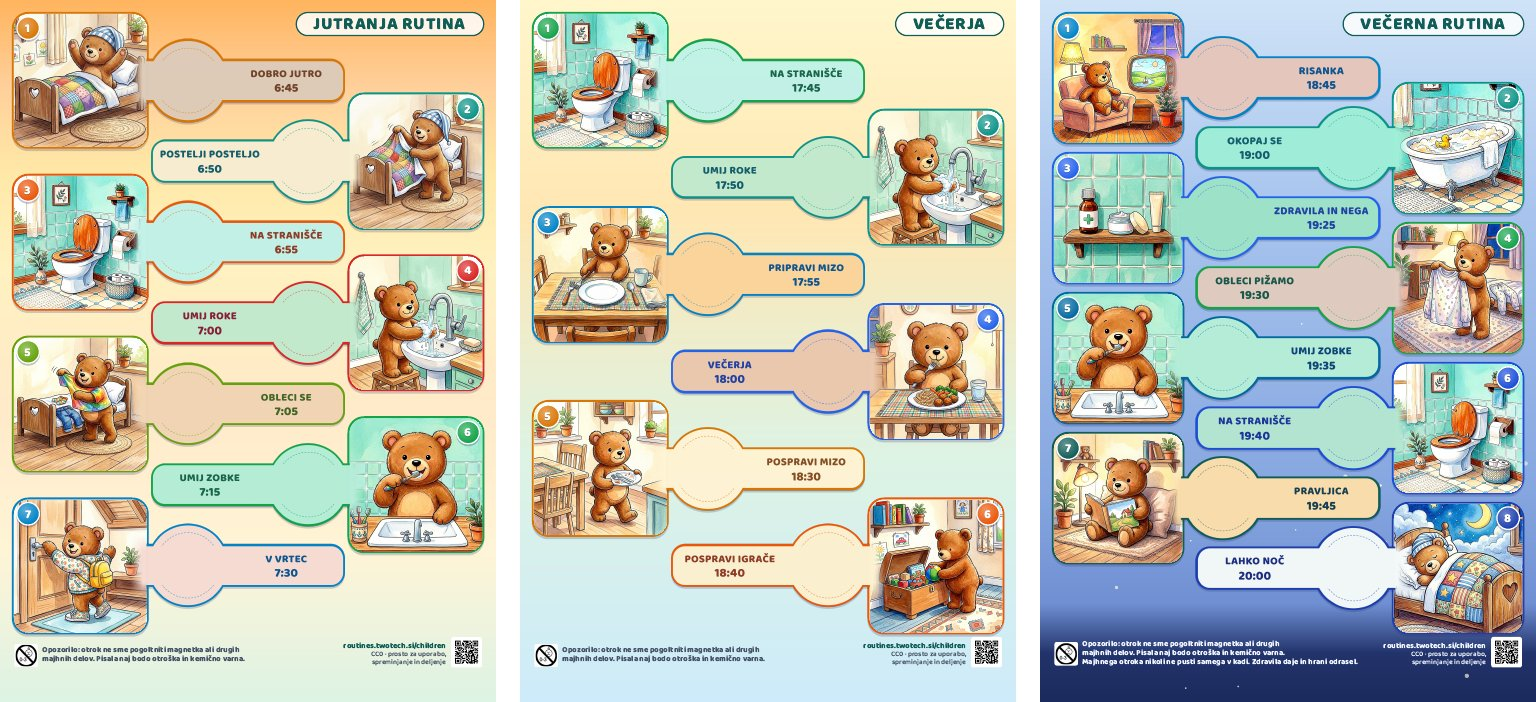
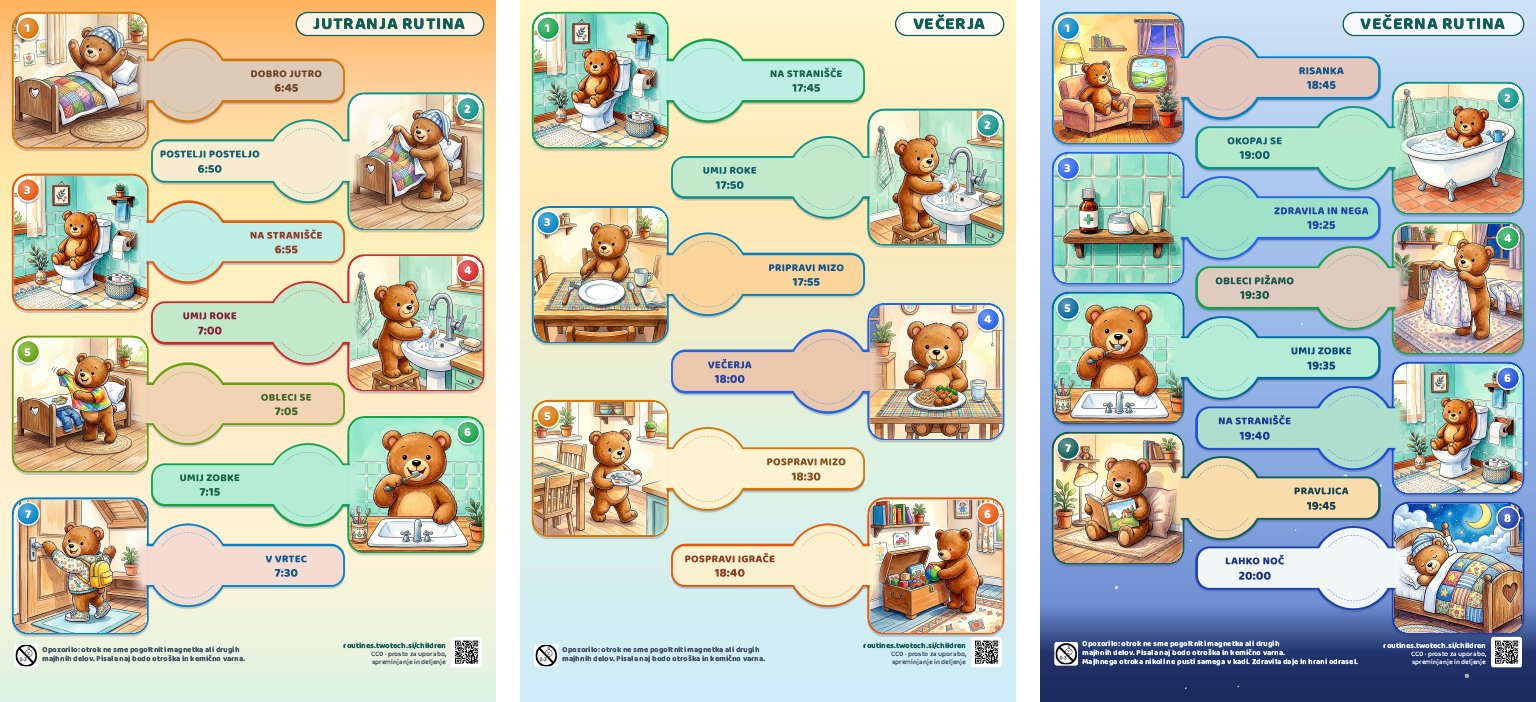
Bear pictures for bath and toilet: the teddy bear in the clawfoot tub and on the toilet, so every step of the examples but medicine shows the same bear
The first bath candidate was rejected: Lens found its rubber duck as an exact match (Redbubble poster); the new one has a toy watering can. Both images passed Lens on the raw and final file and on crops.

diff --git a/output/en-example.html b/output/en-example.html
@@ -286,11 +286,11 @@
         </div>
         <div class="rt-check"></div>
       </div>
-      <div class="rt-pic pic-left" style="--step: #EA580C; --bg: #C3F2E8; --ink: #8E3D28; --y: 87.286mm;">
-        <img src="../images/toilet.jpg" alt="Use the toilet" />
+      <div class="rt-pic pic-left" style="--step: #EA580C; --bg: #C0F0E6; --ink: #8E3D28; --y: 87.286mm;">
+        <img src="../images/toilet-bear.jpg" alt="Use the toilet" />
         <div class="rt-num">3</div>
       </div>
-      <div class="rt-card card-left" style="--step: #EA580C; --bg: #C3F2E8; --ink: #8E3D28; --y: 87.286mm;">
+      <div class="rt-card card-left" style="--step: #EA580C; --bg: #C0F0E6; --ink: #8E3D28; --y: 87.286mm;">
         <div class="rt-text">
           <div class="rt-label">USE THE TOILET</div>
           <div class="rt-time">6:55 AM</div>
@@ -359,11 +359,11 @@
   <div class="page-a4 rt-page" style="background: linear-gradient(180deg, #FFF6CC 0%, #FFE7B3 30%, #DDF3E4 65%, #CDEBFA 100%); --img: 58mm; --title-x: 95.1mm; --title-size: 21.00pt;">
     <div class="rt-grid">
       <div class="rt-header"><div class="rt-title">DINNER</div></div>
-      <div class="rt-pic pic-left" style="--step: #16A34A; --bg: #C3F2E8; --ink: #1A664A; --y: 29mm;">
-        <img src="../images/toilet.jpg" alt="Use the toilet" />
+      <div class="rt-pic pic-left" style="--step: #16A34A; --bg: #C0F0E6; --ink: #1A664A; --y: 29mm;">
+        <img src="../images/toilet-bear.jpg" alt="Use the toilet" />
         <div class="rt-num">1</div>
       </div>
-      <div class="rt-card card-left" style="--step: #16A34A; --bg: #C3F2E8; --ink: #1A664A; --y: 29mm;">
+      <div class="rt-card card-left" style="--step: #16A34A; --bg: #C0F0E6; --ink: #1A664A; --y: 29mm;">
         <div class="rt-text">
           <div class="rt-label">USE THE TOILET</div>
           <div class="rt-time">5:45 PM</div>
@@ -444,11 +444,11 @@
         </div>
         <div class="rt-check"></div>
       </div>
-      <div class="rt-pic pic-right" style="--step: #0D9488; --bg: #A0EFD9; --ink: #155E6D; --y: 57.643mm;">
-        <img src="../images/bath.jpg" alt="Bath time" />
+      <div class="rt-pic pic-right" style="--step: #0D9488; --bg: #B7EBCD; --ink: #155E6D; --y: 57.643mm;">
+        <img src="../images/bath-bear.jpg" alt="Bath time" />
         <div class="rt-num">2</div>
       </div>
-      <div class="rt-card card-right" style="--step: #0D9488; --bg: #A0EFD9; --ink: #155E6D; --y: 57.643mm;">
+      <div class="rt-card card-right" style="--step: #0D9488; --bg: #B7EBCD; --ink: #155E6D; --y: 57.643mm;">
         <div class="rt-text">
           <div class="rt-label">BATH TIME</div>
           <div class="rt-time">7:00 PM</div>
@@ -488,11 +488,11 @@
         </div>
         <div class="rt-check"></div>
       </div>
-      <div class="rt-pic pic-right" style="--step: #1D4ED8; --bg: #B4E6D2; --ink: #1D3799; --y: 176.214mm;">
-        <img src="../images/toilet.jpg" alt="Use the toilet" />
+      <div class="rt-pic pic-right" style="--step: #1D4ED8; --bg: #B0E0CF; --ink: #1D3799; --y: 176.214mm;">
+        <img src="../images/toilet-bear.jpg" alt="Use the toilet" />
         <div class="rt-num">6</div>
       </div>
-      <div class="rt-card card-right" style="--step: #1D4ED8; --bg: #B4E6D2; --ink: #1D3799; --y: 176.214mm;">
+      <div class="rt-card card-right" style="--step: #1D4ED8; --bg: #B0E0CF; --ink: #1D3799; --y: 176.214mm;">
         <div class="rt-text">
           <div class="rt-label">USE THE TOILET</div>
           <div class="rt-time">7:40 PM</div>

diff --git a/output/sl-primer.html b/output/sl-primer.html
@@ -286,11 +286,11 @@
         </div>
         <div class="rt-check"></div>
       </div>
-      <div class="rt-pic pic-left" style="--step: #EA580C; --bg: #C3F2E8; --ink: #8E3D28; --y: 97.5mm;">
-        <img src="../images/toilet.jpg" alt="Na stranišče" />
+      <div class="rt-pic pic-left" style="--step: #EA580C; --bg: #C0F0E6; --ink: #8E3D28; --y: 97.5mm;">
+        <img src="../images/toilet-bear.jpg" alt="Na stranišče" />
         <div class="rt-num">3</div>
       </div>
-      <div class="rt-card card-left" style="--step: #EA580C; --bg: #C3F2E8; --ink: #8E3D28; --y: 97.5mm;">
+      <div class="rt-card card-left" style="--step: #EA580C; --bg: #C0F0E6; --ink: #8E3D28; --y: 97.5mm;">
         <div class="rt-text">
           <div class="rt-label">NA STRANIŠČE</div>
           <div class="rt-time">6:55</div>
@@ -348,11 +348,11 @@
   <div class="page-a4 rt-page" style="background: linear-gradient(180deg, #FFF6CC 0%, #FFE7B3 30%, #DDF3E4 65%, #CDEBFA 100%); --img: 58mm; --title-x: 95.1mm; --title-size: 21.00pt;">
     <div class="rt-grid">
       <div class="rt-header"><div class="rt-title">VEČERJA</div></div>
-      <div class="rt-pic pic-left" style="--step: #16A34A; --bg: #C3F2E8; --ink: #1A664A; --y: 29mm;">
-        <img src="../images/toilet.jpg" alt="Na stranišče" />
+      <div class="rt-pic pic-left" style="--step: #16A34A; --bg: #C0F0E6; --ink: #1A664A; --y: 29mm;">
+        <img src="../images/toilet-bear.jpg" alt="Na stranišče" />
         <div class="rt-num">1</div>
       </div>
-      <div class="rt-card card-left" style="--step: #16A34A; --bg: #C3F2E8; --ink: #1A664A; --y: 29mm;">
+      <div class="rt-card card-left" style="--step: #16A34A; --bg: #C0F0E6; --ink: #1A664A; --y: 29mm;">
         <div class="rt-text">
           <div class="rt-label">NA STRANIŠČE</div>
           <div class="rt-time">17:45</div>
@@ -433,11 +433,11 @@
         </div>
         <div class="rt-check"></div>
       </div>
-      <div class="rt-pic pic-right" style="--step: #0D9488; --bg: #A0EFD9; --ink: #155E6D; --y: 57.643mm;">
-        <img src="../images/bath.jpg" alt="Okopaj se" />
+      <div class="rt-pic pic-right" style="--step: #0D9488; --bg: #B7EBCD; --ink: #155E6D; --y: 57.643mm;">
+        <img src="../images/bath-bear.jpg" alt="Okopaj se" />
         <div class="rt-num">2</div>
       </div>
-      <div class="rt-card card-right" style="--step: #0D9488; --bg: #A0EFD9; --ink: #155E6D; --y: 57.643mm;">
+      <div class="rt-card card-right" style="--step: #0D9488; --bg: #B7EBCD; --ink: #155E6D; --y: 57.643mm;">
         <div class="rt-text">
           <div class="rt-label">OKOPAJ SE</div>
           <div class="rt-time">19:00</div>
@@ -477,11 +477,11 @@
         </div>
         <div class="rt-check"></div>
       </div>
-      <div class="rt-pic pic-right" style="--step: #1D4ED8; --bg: #B4E6D2; --ink: #1D3799; --y: 176.214mm;">
-        <img src="../images/toilet.jpg" alt="Na stranišče" />
+      <div class="rt-pic pic-right" style="--step: #1D4ED8; --bg: #B0E0CF; --ink: #1D3799; --y: 176.214mm;">
+        <img src="../images/toilet-bear.jpg" alt="Na stranišče" />
         <div class="rt-num">6</div>
       </div>
-      <div class="rt-card card-right" style="--step: #1D4ED8; --bg: #B4E6D2; --ink: #1D3799; --y: 176.214mm;">
+      <div class="rt-card card-right" style="--step: #1D4ED8; --bg: #B0E0CF; --ink: #1D3799; --y: 176.214mm;">
         <div class="rt-text">
           <div class="rt-label">NA STRANIŠČE</div>
           <div class="rt-time">19:40</div>

diff --git a/children/data.js b/children/data.js
@@ -55,6 +55,13 @@ window.SHEET_DATA = {
   "plain"
  ],
  "images": {
+  "bath-bear": {
+   "title": "Teddy bear in the white clawfoot tub full of bubbles in the mint bathroom, waving a paw, seen from the front",
+   "label": {},
+   "keywords": {},
+   "theme": "bear",
+   "variant_of": "bath"
+  },
   "bath": {
    "title": "Bubble bath ready with a rubber duck and a towel in the same bathroom",
    "label": {
@@ -626,6 +633,13 @@ window.SHEET_DATA = {
    },
    "theme": "bear"
   },
+  "toilet-bear": {
+   "title": "Teddy bear sitting on the toilet with the wooden seat in the mint bathroom, paws on its knees, seen from the front",
+   "label": {},
+   "keywords": {},
+   "theme": "bear",
+   "variant_of": "toilet"
+  },
   "toilet": {
    "title": "Plain toilet with a wooden seat in a cozy bathroom",
    "label": {
@@ -1035,6 +1049,7 @@ window.SHEET_DATA = {
  }
 };
 window.SHEET_EDGES = {
+  "bath-bear": ["#A4D6C7", "#B7EBCD"],
   "bath": ["#87DCD9", "#A0EFD9"],
   "breakfast-bear": ["#F7DCBB", "#FFF3CF"],
   "breakfast": ["#FFCE86", "#FFD68A"],
@@ -1071,6 +1086,7 @@ window.SHEET_EDGES = {
   "story": ["#CECBD6", "#D8DFEE"],
   "tidy-toys-plain": ["#FADCB6", "#FDF6CD"],
   "tidy-toys": ["#F5DBBB", "#FCF1D0"],
+  "toilet-bear": ["#C0F0E6", "#B0E0CF"],
   "toilet": ["#C3F2E8", "#B4E6D2"],
   "wash-face-plain": ["#C0F1EC", "#B6D9C6"],
   "wash-face": ["#CBEEEC", "#B1E5D2"],

diff --git a/images/README.md b/images/README.md
@@ -4,7 +4,7 @@ Generated by `tools/build.py` from `images/<id>.json`; do not edit by hand. To a
 
 | Teddy bear | No character | Id | Title | Keywords | Used in |
 | --- | --- | --- | --- | --- | --- |
-| — | <img src="bath.jpg" width="120" alt="Bubble bath ready with a rubber duck and a towel in the same bathroom"> | `bath` | Bubble bath ready with a rubber duck and a towel in the same bathroom | sl: kopanj*, kopel*, kopaj*, kad, tus*, okopaj*<br>en: bath*, shower | en-example: EVENING ROUTINE 2<br>sl-primer: VEČERNA RUTINA 2 |
+| <img src="bath-bear.jpg" width="120" alt="Teddy bear in the white clawfoot tub full of bubbles in the mint bathroom, waving a paw, seen from the front"> | <img src="bath.jpg" width="120" alt="Bubble bath ready with a rubber duck and a towel in the same bathroom"> | `bath-bear`<br>`bath` | Bubble bath ready with a rubber duck and a towel in the same bathroom | sl: kopanj*, kopel*, kopaj*, kad, tus*, okopaj*<br>en: bath*, shower | en-example: EVENING ROUTINE 2<br>sl-primer: VEČERNA RUTINA 2 |
 | <img src="breakfast-bear.jpg" width="120" alt="Teddy bear at the kitchen table taking a bite of buttered toast, with an apple and tea on the plaid placemat"> | <img src="breakfast.jpg" width="120" alt="Toast with butter, an apple and a cup of tea on the kitchen table"> | `breakfast-bear`<br>`breakfast` | Toast with butter, an apple and a cup of tea on the kitchen table | sl: zajtrk*, opecen*, toast, kruh*, jabolk*, caj, malic*<br>en: breakfast, toast, bread, apple, tea, snack | en-example: MORNING ROUTINE 6 |
 | <img src="brush-hair.jpg" width="120" alt="Teddy bear on a stool brushing the fur on its head with a wooden brush, in front of a round mirror"> | <img src="brush-hair-plain.jpg" width="120" alt="A child&#x27;s own hand lifting a wooden hairbrush in front of the dresser, seen through the child&#x27;s eyes"> | `brush-hair`<br>`brush-hair-plain` | Teddy bear on a stool brushing the fur on its head with a wooden brush, in front of a round mirror | sl: poces*, cesanj*, cesi se, lase, lasje, glavnik*<br>en: brush hair, brush your hair, comb*, hair* | — |
 | <img src="brush-teeth.jpg" width="120" alt="Teddy bear behind the bathroom sink, seen from the front, brushing its teeth"> | <img src="brush-teeth-plain.jpg" width="120" alt="A child&#x27;s own hand holding a toothbrush with toothpaste in the mint bathroom, seen through the child&#x27;s eyes"> | `brush-teeth`<br>`brush-teeth-plain` | Teddy bear behind the bathroom sink, seen from the front, brushing its teeth | sl: zob*, scetk*, krtack*<br>en: teeth, tooth*, brush teeth, brush your teeth | en-example: MORNING ROUTINE 7<br>en-example: EVENING ROUTINE 5<br>sl-primer: JUTRANJA RUTINA 6<br>sl-primer: VEČERNA RUTINA 5 |
@@ -23,6 +23,6 @@ Generated by `tools/build.py` from `images/<id>.json`; do not edit by hand. To a
 | <img src="sleep.jpg" width="120" alt="Teddy bear lying asleep in bed under a night sky"> | <img src="sleep-plain.jpg" width="120" alt="An empty wooden bed made ready for the night under a starry sky with a crescent moon"> | `sleep`<br>`sleep-plain` | Teddy bear lying asleep in bed under a night sky | sl: spanj*, spat*, spi, zaspi*, lahko noc, v posteljo, pocitek<br>en: sleep*, go to bed, good night, lights out, nap | en-example: EVENING ROUTINE 8<br>sl-primer: VEČERNA RUTINA 8 |
 | <img src="story-bear.jpg" width="120" alt="Teddy bear sitting on a rug against a cushion, looking at a picture book by a reading lamp"> | <img src="story.jpg" width="120" alt="Open storybook on a bed with a pop-up castle"> | `story-bear`<br>`story` | Open storybook on a bed with a pop-up castle | sl: pravljic*, zgodb*, knjig*, beri*, branje, prebere*<br>en: story, stories, book*, read* | en-example: EVENING ROUTINE 7<br>sl-primer: VEČERNA RUTINA 7 |
 | <img src="tidy-toys.jpg" width="120" alt="Teddy bear putting the last ball into a full toy chest"> | <img src="tidy-toys-plain.jpg" width="120" alt="A child&#x27;s own two hands putting a ball into the full toy chest, seen through the child&#x27;s eyes"> | `tidy-toys`<br>`tidy-toys-plain` | Teddy bear putting the last ball into a full toy chest | sl: igrac*, igrack*, skrinj*<br>en: toys, tidy up, tidy*, clean up, put away toys | en-example: DINNER 6<br>sl-primer: VEČERJA 6 |
-| — | <img src="toilet.jpg" width="120" alt="Plain toilet with a wooden seat in a cozy bathroom"> | `toilet` | Plain toilet with a wooden seat in a cozy bathroom | sl: lula*, stranisc*, wc, kahlic*, kakanj*, kakat*, potreb*, kopalnic*<br>en: toilet, potty, pee, wee, bathroom, loo | en-example: MORNING ROUTINE 3<br>en-example: DINNER 1<br>en-example: EVENING ROUTINE 6<br>sl-primer: JUTRANJA RUTINA 3<br>sl-primer: VEČERJA 1<br>sl-primer: VEČERNA RUTINA 6 |
+| <img src="toilet-bear.jpg" width="120" alt="Teddy bear sitting on the toilet with the wooden seat in the mint bathroom, paws on its knees, seen from the front"> | <img src="toilet.jpg" width="120" alt="Plain toilet with a wooden seat in a cozy bathroom"> | `toilet-bear`<br>`toilet` | Plain toilet with a wooden seat in a cozy bathroom | sl: lula*, stranisc*, wc, kahlic*, kakanj*, kakat*, potreb*, kopalnic*<br>en: toilet, potty, pee, wee, bathroom, loo | en-example: MORNING ROUTINE 3<br>en-example: DINNER 1<br>en-example: EVENING ROUTINE 6<br>sl-primer: JUTRANJA RUTINA 3<br>sl-primer: VEČERJA 1<br>sl-primer: VEČERNA RUTINA 6 |
 | <img src="wash-face.jpg" width="120" alt="Teddy bear on a step stool at the bathroom sink, wiping its face with a blue washcloth"> | <img src="wash-face-plain.jpg" width="120" alt="A child&#x27;s own two hands holding a wet blue washcloth above the sink in the mint bathroom, seen through the child&#x27;s eyes"> | `wash-face`<br>`wash-face-plain` | Teddy bear on a step stool at the bathroom sink, wiping its face with a blue washcloth | sl: obraz*, umij obraz, umivanje obraza<br>en: wash face, wash your face, face | — |
 | <img src="wash-hands-bear.jpg" width="120" alt="Teddy bear on a step stool rubbing soapy paws under the tap in the mint bathroom, seen from the front"> | <img src="wash-hands.jpg" width="120" alt="Child&#x27;s hands washing under a tap with soap bubbles"> | `wash-hands-bear`<br>`wash-hands` | Child's hands washing under a tap with soap bubbles | sl: roke, rok, umivanje rok, umij roke, milo<br>en: wash hands, hands, hand washing, handwashing, soap | en-example: MORNING ROUTINE 4<br>en-example: DINNER 2<br>sl-primer: JUTRANJA RUTINA 4<br>sl-primer: VEČERJA 2 |

diff --git a/docs/copyright-investigations/2026-10-31-bath-bear-redbubble-duck.md b/docs/copyright-investigations/2026-10-31-bath-bear-redbubble-duck.md
@@ -1,0 +1,7 @@
+# bath-bear: the rubber duck (crop) and a Redbubble poster
+
+- Image: first `bath-bear` candidate, never committed (Gemini image generation via Antigravity CLI, 2026-10-31, after the contrast step), SHA-256 of the raw file fc97bb9128b8d0abc7f57a205ea2d4770a7bef7c7c9ed9a6319b3d2685f87119. The teddy bear sat in the clawfoot tub with a small yellow rubber duck floating on the foam.
+- Check: Google Lens, Exact matches tab, on a 512 px crop of the duck. The whole picture (raw and final) had no exact matches.
+- Match: "Patito Alegre Pósters - Redbubble" (https://www.redbubble.com/es/shop/patito+alegre+posters), a 600 × 600 yellow rubber duck facing right on water, the same outline, orange beak and wing as the crop.
+- Comparison: the whole scene differs, but the duck itself is close enough that Lens lists it as an exact match. The Visual matches of the whole picture also showed an EZ Creative Co Etsy print of a bear in a clawfoot tub (see 2026-10-30-brush-teeth-bear-etsy-ezcreativeco.md): there the bear has foam on its head and a towel over the rim on a blank background; same motif, different composition.
+- Decision: the skill rejects any exact match. The bath was generated again without a rubber duck (a blue toy watering can on the rim instead); the new file passed Lens (raw, final and crops) on 2026-10-31.
